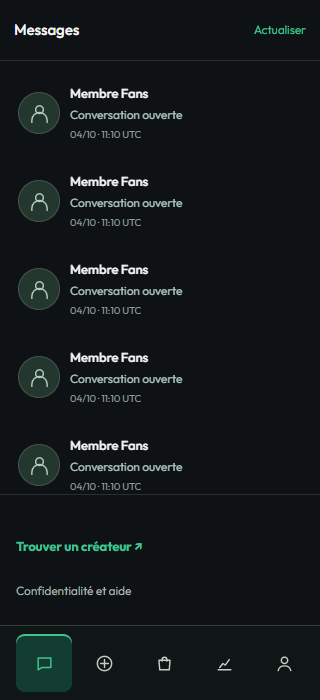
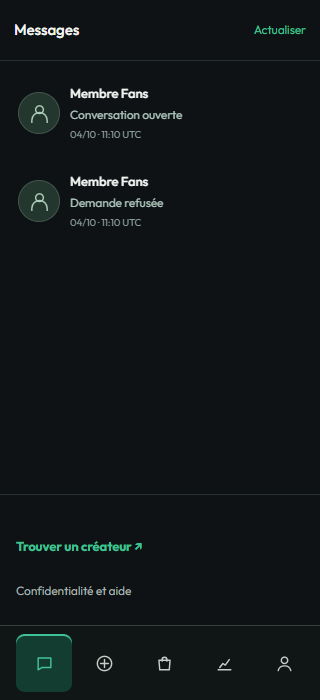
🐛 Retry private session validation after transient transport failures

diff --git a/assets/fans-session.js b/assets/fans-session.js
@@ -3,21 +3,22 @@
   const body=document.body,endpoint=body.dataset.fansSession;if(!endpoint)return;
   const publicUrl=new URL(body.dataset.sessionPublic,location.origin);if(publicUrl.origin!==location.origin)return;
   const channel='faluss-fans-session-closed',broadcast=typeof BroadcastChannel==='function'?new BroadcastChannel(channel):null;
-  let leaving=false,checking=false;
+  let leaving=false,checking=false,retry=null,retryDelay=4000;
   function leave(closed=false){
-    if(leaving)return;leaving=true;document.dispatchEvent(new Event('fans-session-ended'));body.replaceChildren();body.hidden=true;
+    if(leaving)return;leaving=true;clearTimeout(retry);document.dispatchEvent(new Event('fans-session-ended'));body.replaceChildren();body.hidden=true;
     if(closed)publicUrl.searchParams.set('faluss_fans_session','closed');location.replace(publicUrl.href);
   }
   function notify(){broadcast?.postMessage('closed');try{localStorage.setItem(channel,String(Date.now())+Math.random());}catch(error){/* Channel and server validation still apply. */}}
   broadcast?.addEventListener('message',event=>{if(event.data==='closed')leave(true);});
   window.addEventListener('storage',event=>{if(event.key===channel&&event.newValue)leave(true);});
   async function check(){
-    if(leaving||checking)return;
+    if(leaving||checking)return;clearTimeout(retry);
     // Messaging can wait through a network outage, but a hidden page stays veiled until revalidated.
     const messaging=body.classList.contains('fu-messages-ready');
-    if(messaging&&!navigator.onLine)return;checking=true;
-    try{const response=await fetch(endpoint,{credentials:'same-origin',cache:'no-store',redirect:'error',headers:{'X-WP-Nonce':body.dataset.sessionNonce}});const data=await response.json();if(!response.ok||data.active!==true){leave();return;}body.hidden=false;}
-    catch(error){if(messaging){body.hidden=true;}else leave();}finally{checking=false;}
+    if(messaging&&(!navigator.onLine||document.hidden))return;checking=true;
+    const controller=messaging?new AbortController():null,timeout=controller?setTimeout(()=>controller.abort(),12000):null;
+    try{const response=await fetch(endpoint,{credentials:'same-origin',cache:'no-store',redirect:'error',...(controller?{signal:controller.signal}:{}),headers:{'X-WP-Nonce':body.dataset.sessionNonce}});const data=await response.json();if(!response.ok||data.active!==true){leave();return;}retryDelay=4000;body.hidden=false;}
+    catch(error){if(messaging){body.hidden=true;retry=setTimeout(check,retryDelay);retryDelay=Math.min(60000,retryDelay*2);}else leave();}finally{clearTimeout(timeout);checking=false;}
   }
   // The deadline comes from the verified server token, not a visit-based renewal or the client's wall clock.
   const remaining=Math.max(0,(Number(body.dataset.sessionExpires)-Number(body.dataset.sessionNow))*1000);
@@ -25,7 +26,7 @@
   document.addEventListener('visibilitychange',()=>{if(document.hidden)body.hidden=true;else check();});
   window.addEventListener('focus',check);
   window.addEventListener('online',check);
-  window.addEventListener('pagehide',()=>{document.dispatchEvent(new Event('fans-session-ended'));body.replaceChildren();body.hidden=true;});
+  window.addEventListener('pagehide',()=>{clearTimeout(retry);document.dispatchEvent(new Event('fans-session-ended'));body.replaceChildren();body.hidden=true;});
   window.addEventListener('pageshow',event=>{if(event.persisted){body.hidden=true;location.reload();}});
   body.querySelector('[data-fans-logout]')?.addEventListener('submit',async event=>{
     event.preventDefault();const form=event.target,button=form.querySelector('button');if(button.disabled)return;button.disabled=true;

diff --git a/docs/evidence/fans-messaging-mobile-live/README.md b/docs/evidence/fans-messaging-mobile-live/README.md
@@ -102,7 +102,7 @@ aucune présentation publique approuvée n’existe, pas d’aperçu ni de non-l
 
 ## Résultats vérifiés
 
-- **114 contrôles navigateur** dans `browser.json`, plus **4 contrôles de navigation**
+- **114 contrôles navigateur** dans `browser.json`, plus **5 contrôles de navigation et résilience**
   dans [navigation.json](navigation.json) : geste tactile horizontal réel via CDP,
   huit destinations Créateur, focus visible, retour d’une conversation inaccessible,
   seuil mobile/ordinateur 700/701 px.
